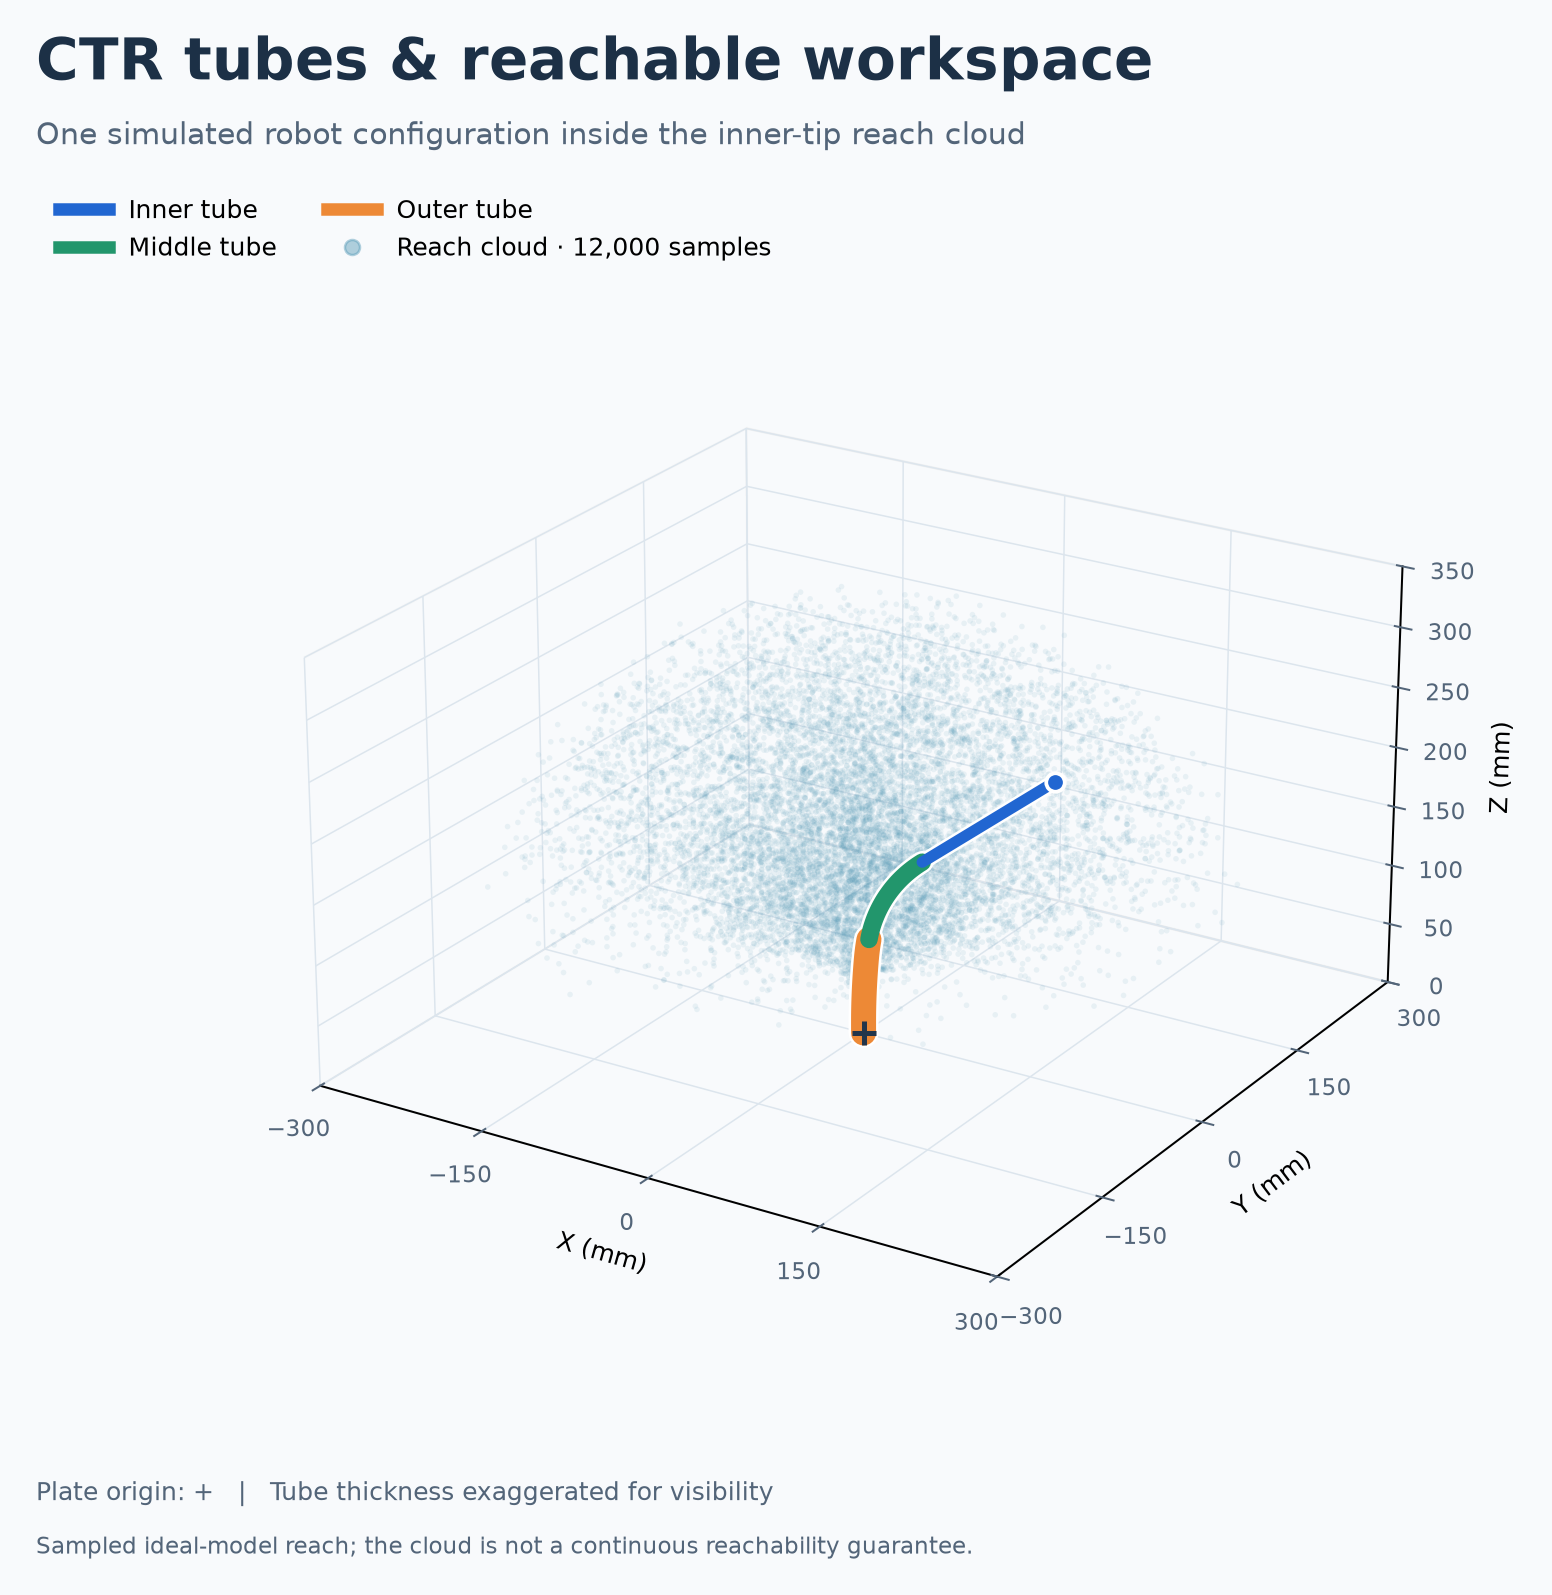
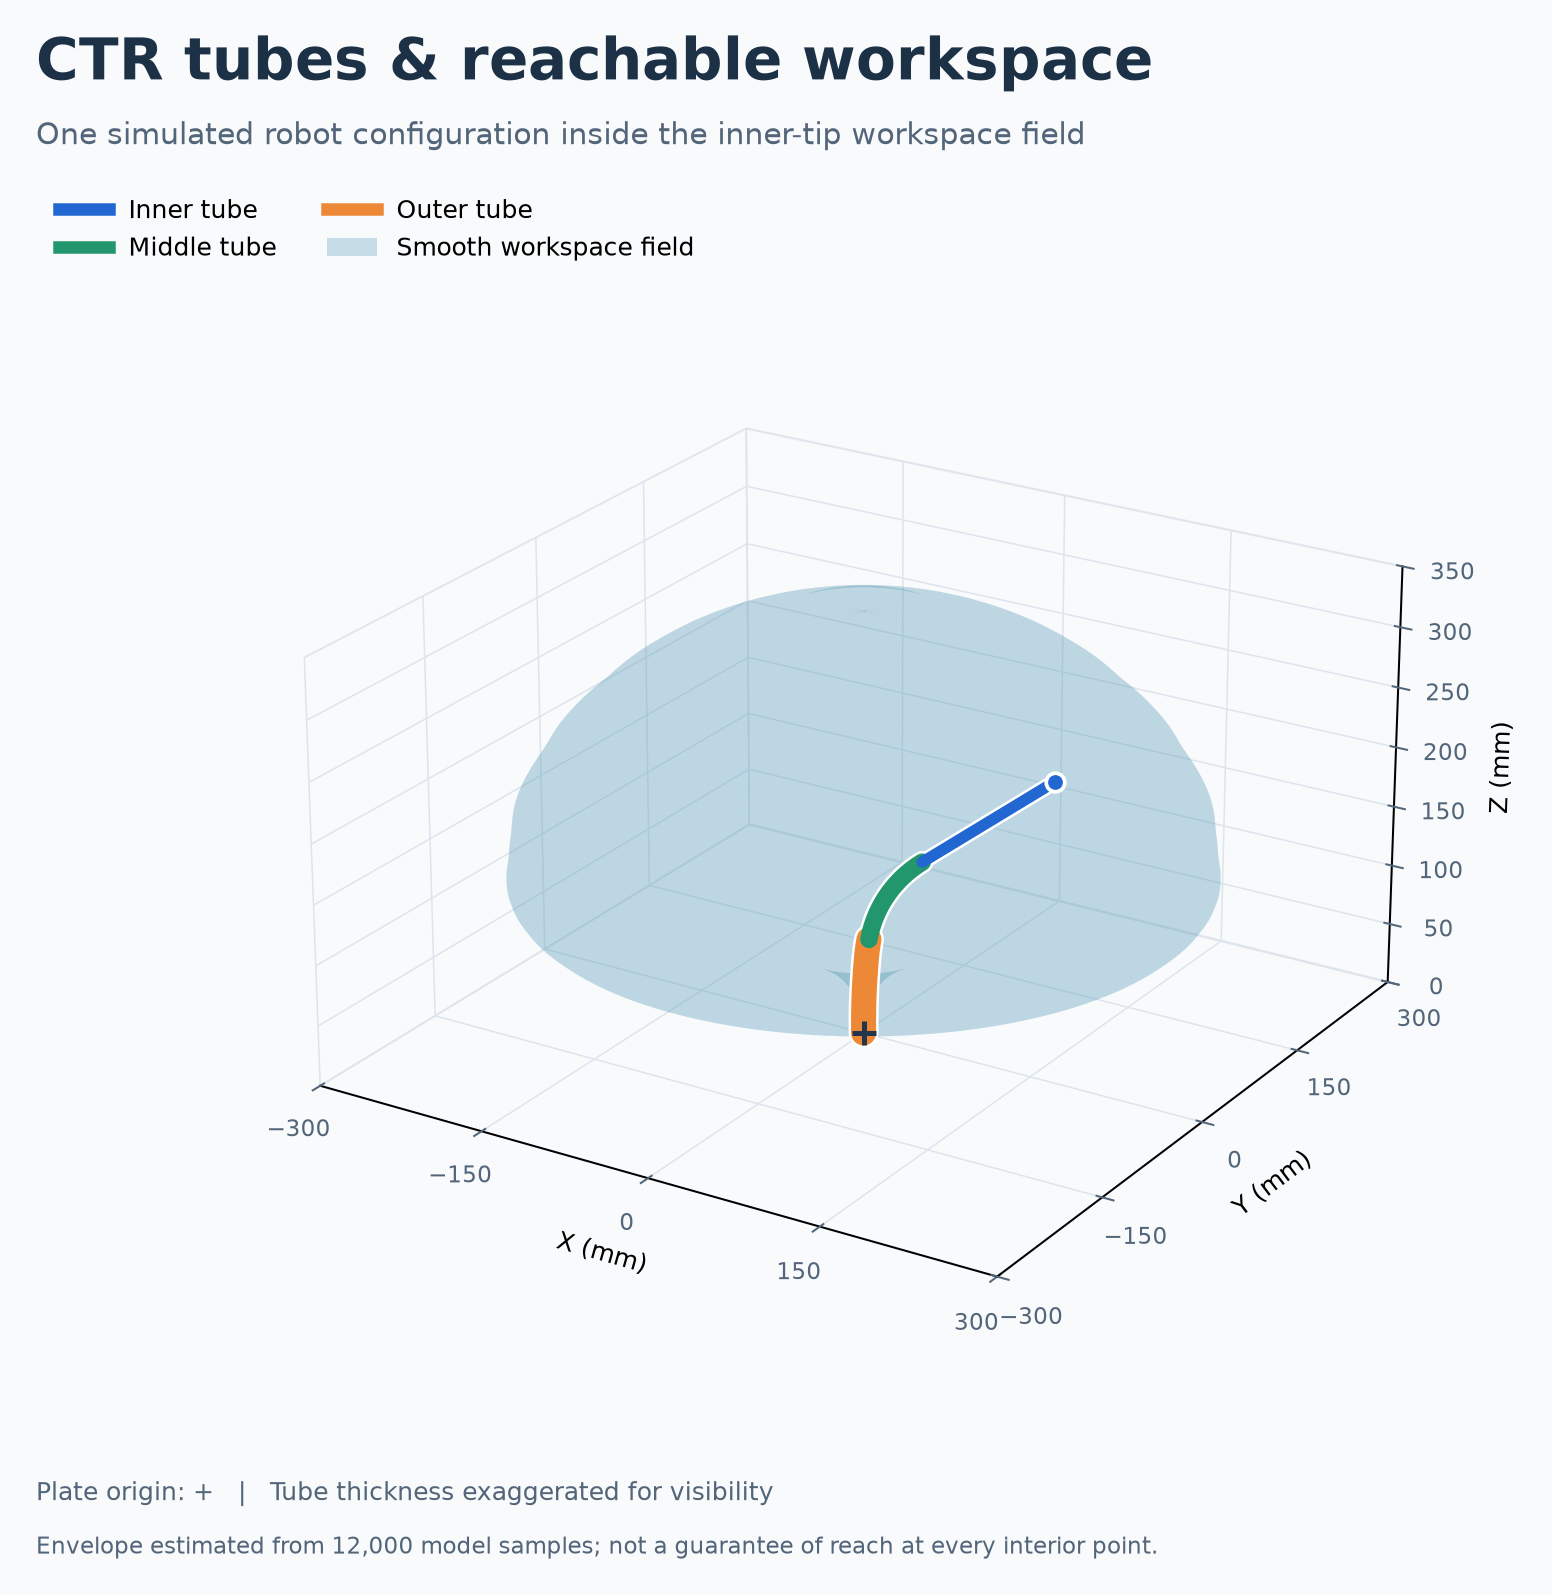
Animate CTR tubes inside a smooth workspace field

diff --git a/tools/plot_readme_workspace.py b/tools/plot_readme_workspace.py
@@ -1,5 +1,6 @@
 """Reproduce the README's CTR tube and reachable-workspace illustration."""
 
+import argparse
 from pathlib import Path
 import sys
 
@@ -8,19 +9,29 @@ import matplotlib
 matplotlib.use("Agg")
 import matplotlib.pyplot as plt
 from matplotlib.lines import Line2D
+from matplotlib.patches import Patch
+from matplotlib.animation import PillowWriter
 import numpy as np
 
 PROJECT_ROOT = Path(__file__).resolve().parents[1]
 sys.path.insert(0, str(PROJECT_ROOT))
 
-from ctr_workspace_map import load_endpoint_workspace_maps
+from ctr_workspace_map import load_endpoint_workspace_maps, radial_workspace_envelope
 from tube_parameters import build_supervisor_ctr_parameters
 from tools.plot_radial_vertical_example import backbone_mm, polyline_interval
 
 
 def main() -> None:
+    parser = argparse.ArgumentParser(description=__doc__)
+    parser.add_argument("--gif", action="store_true", help="Also render a looping camera orbit GIF.")
+    args = parser.parse_args()
     workspace = load_endpoint_workspace_maps()
-    cloud = workspace.tips_mm[0]
+    samples = workspace.tips_mm[0]
+    profile_z, profile_radius = radial_workspace_envelope(samples)
+    angles = np.linspace(0.0, 2.0 * np.pi, 181)
+    field_x = profile_radius[:, None] * np.cos(angles)
+    field_y = profile_radius[:, None] * np.sin(angles)
+    field_z = np.broadcast_to(profile_z[:, None], field_x.shape)
     deployment_mm = np.array([270.0, 150.0, 75.0])
     rotation_deg = np.array([0.0, 65.0, -20.0])
     backbone = backbone_mm(build_supervisor_ctr_parameters(),
@@ -35,9 +46,11 @@ def main() -> None:
     fig = plt.figure(figsize=(11, 9), facecolor="#f8fafc")
     ax = fig.add_subplot(111, projection="3d", computed_zorder=False)
     ax.set_facecolor("#f8fafc")
-    ax.scatter(*cloud.T, s=5, alpha=0.10, color="#559ab7", edgecolors="none",
-               depthshade=False, rasterized=True, zorder=1)
-    # Emphasise the robot against the cloud; widths are illustrative, not to scale.
+    # Use the same smooth axisymmetric envelope as the interactive viewer.
+    ax.plot_surface(field_x, field_y, field_z, color="#559ab7", alpha=0.20,
+                    rstride=1, cstride=1, linewidth=0, edgecolor="none",
+                    antialiased=True, shade=False, rasterized=True, zorder=1)
+    # Emphasise the robot against the field; widths are illustrative, not to scale.
     for tube in (2, 1, 0):
         segment = segments[tube]
         width = (4.5, 7.0, 10.0)[tube]
@@ -60,24 +73,34 @@ def main() -> None:
         axis._axinfo["grid"].update(color="#dce5ed", linewidth=0.6)
     fig.text(0.065, 0.95, "CTR tubes & reachable workspace", fontsize=23,
              fontweight="bold", color="#1c3046")
-    fig.text(0.065, 0.91, "One simulated robot configuration inside the inner-tip reach cloud",
+    fig.text(0.065, 0.91, "One simulated robot configuration inside the inner-tip workspace field",
              fontsize=12, color="#536579")
     handles = [Line2D([0], [0], color=color, linewidth=5, label=name)
                for color, name in zip(colors, ("Inner tube", "Middle tube", "Outer tube"))]
-    handles.append(Line2D([0], [0], marker="o", linestyle="none", color="#559ab7",
-                          alpha=0.45, label=f"Reach cloud · {len(cloud):,} samples"))
+    handles.append(Patch(facecolor="#559ab7", alpha=0.30, edgecolor="none",
+                         label="Smooth workspace field"))
     fig.legend(handles=handles, loc="upper left", bbox_to_anchor=(0.065, 0.89),
                frameon=False, ncol=2, fontsize=10)
     fig.subplots_adjust(left=0.01, right=0.94, bottom=0.12, top=0.84)
     fig.text(0.065, 0.073, "Plate origin: +   |   Tube thickness exaggerated for visibility",
              fontsize=10, color="#536579")
-    fig.text(0.065, 0.04, "Sampled ideal-model reach; the cloud is not a continuous reachability guarantee.",
+    fig.text(0.065, 0.04, "Envelope estimated from 12,000 model samples; not a guarantee of reach at every interior point.",
              fontsize=9, color="#536579")
     output = PROJECT_ROOT / "docs/images/ctr_workspace_sectioned.png"
     output.parent.mkdir(parents=True, exist_ok=True)
     fig.savefig(output, dpi=180, facecolor=fig.get_facecolor(), bbox_inches="tight", pad_inches=0.2)
+    print(f"Saved {output}", flush=True)
+    if args.gif:
+        animation_path = output.with_suffix(".gif")
+        writer = PillowWriter(fps=12)
+        with writer.saving(fig, str(animation_path), dpi=85):
+            for frame in range(72):
+                ax.view_init(elev=23, azim=-58 + frame * 5)
+                writer.grab_frame(facecolor=fig.get_facecolor())
+                if frame % 18 == 0:
+                    print(f"Rendered frame {frame + 1}/72", flush=True)
+        print(f"Saved {animation_path}", flush=True)
     plt.close(fig)
-    print(f"Saved {output}")
 
 
 if __name__ == "__main__":

diff --git a/README.md b/README.md
@@ -4,11 +4,12 @@ An interactive Python simulator for a three-tube concentric-tube robot (CTR), wi
 
 Explore tube deployment and rotation, preview inverse-kinematics solutions and motion routes, and compare the reach of the inner, middle, and outer endpoints.
 
-The image below shows a simulated CTR configuration inside a translucent cloud of **12,000 sampled inner-tip positions** from the current viewer cache. Blue, green, and orange identify the visible inner, middle, and outer tube sections; the + marks the plate origin. Tube thickness is exaggerated for visibility. The cloud illustrates ideal-model reach, not experimentally measured reach or a guarantee that every point inside the cloud is reachable.
+The animation below rotates around a simulated CTR configuration inside a **smooth, translucent inner-tip workspace field**, estimated from 12,000 sampled positions using the same envelope method as the interactive viewer. Blue, green, and orange identify the visible inner, middle, and outer tube sections; the + marks the plate origin. Tube thickness is exaggerated for visibility. The field illustrates an approximate ideal-model workspace boundary, not experimentally measured reach or a guarantee that every interior point is reachable.
 
-![Blue inner, green middle, and orange outer CTR tubes inside a translucent cloud of 12,000 sampled reachable inner-tip positions](docs/images/ctr_workspace_sectioned.png)
+![Blue inner, green middle, and orange outer CTR tubes inside a smooth translucent inner-tip workspace field](docs/images/ctr_workspace_sectioned.gif)
 
-Reproduce this figure with `./.venv/bin/python tools/plot_readme_workspace.py`.
+Reproduce the animation and still image with `./.venv/bin/python tools/plot_readme_workspace.py --gif`.
+[View the static image](docs/images/ctr_workspace_sectioned.png).
 The viewer cache is separate from the independent canonical datasets used for formal analysis.
 
 ## Run the simulator

diff --git a/tools/README.md b/tools/README.md
@@ -51,7 +51,8 @@ Run tools from the repository root with the project environment, for example:
 ## Current formal analysis and documentation tools
 
 - `plot_readme_workspace.py` reproduces the GitHub map from the bundled 12,000-state
-  endpoint cache without rerunning an analysis study.
+  endpoint cache without rerunning an analysis study. Add `--gif` to render the
+  looping camera orbit around the tubes and smooth workspace field.
 - `run_stage3_baseline_evaluation.py` runs the versioned baseline evaluation.
 - `run_stage4_convergence_extension.py` extends primary-endpoint convergence evidence.
 - `run_stage4_1_ik_support_extension.py` extends primary-endpoint IK spatial support.
